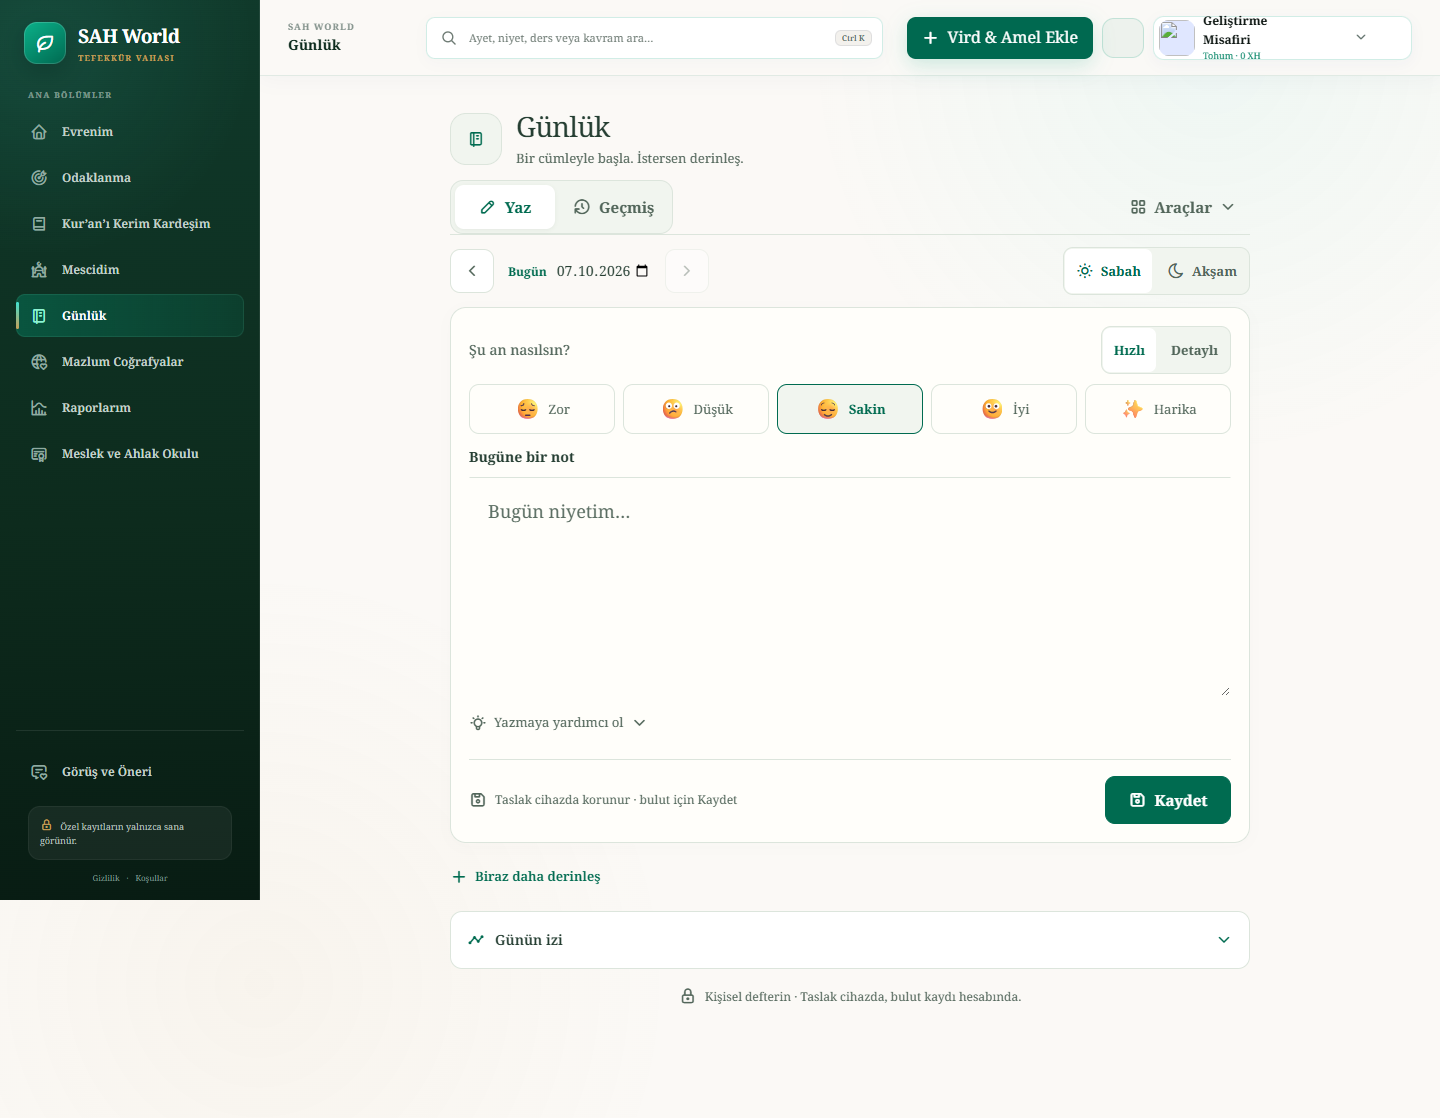
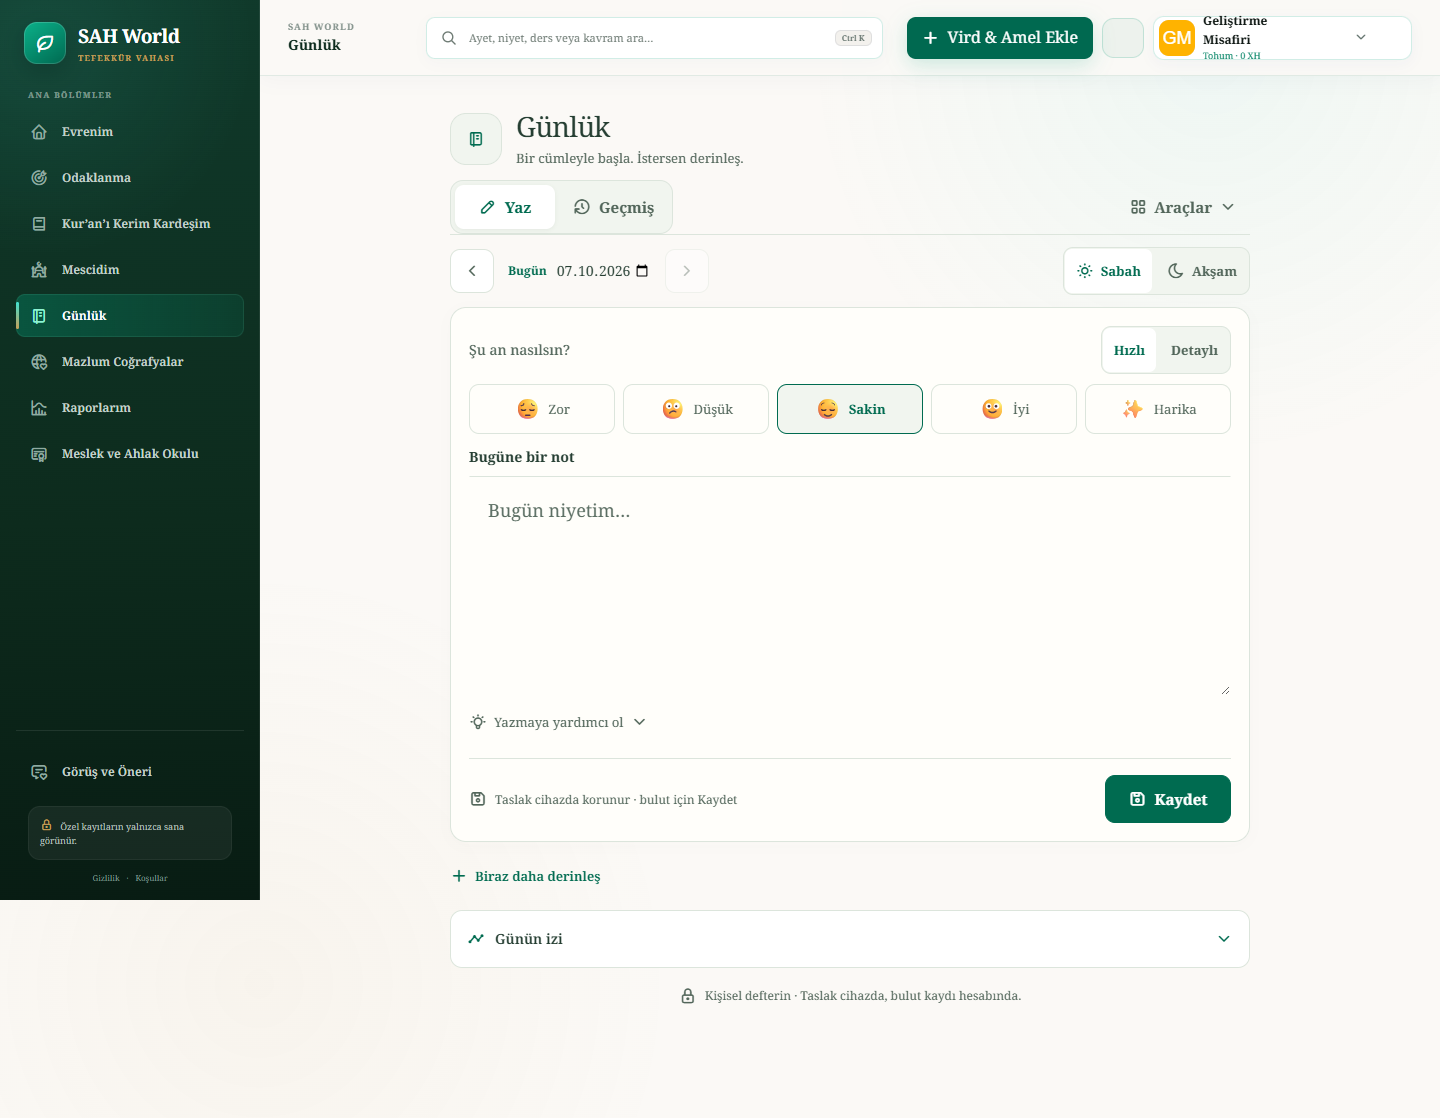
fix(journal): keep mobile navigation compact across narrow widths

diff --git a/tests/e2e/journal-redesign.spec.ts b/tests/e2e/journal-redesign.spec.ts
@@ -28,7 +28,7 @@ test('editor is above the fold, calm, responsive and keyboard accessible', async
   await expect(page.locator('main h1')).toHaveCount(1);
   await expect(page.getByRole('tab')).toHaveCount(2);
   await expect(page.locator('.journal-cover-hero, .journal-binder, .journal-connections-grid')).toHaveCount(0);
-  for (const width of [375, 390, 768, 1440, 1920]) {
+  for (const width of [375, 390, 391, 412, 768, 1440, 1920]) {
     await page.setViewportSize({ width, height: width >= 768 ? 900 : 844 });
     // Resize acknowledgement can precede responsive reflow on the CI browser.
     // Keep the acceptance limit; wait for the actual layout, not a fixed sleep.
@@ -36,6 +36,12 @@ test('editor is above the fold, calm, responsive and keyboard accessible', async
       { message: `responsive editor top at ${width}px` }).toBeLessThanOrEqual(480);
     const box = await page.locator('.journal-main-textarea').boundingBox();
     expect(box!.y, `first editor top at ${width}px`).toBeLessThanOrEqual(480);
+    if (width < 768) {
+      const nav = page.locator('.journal-navigation');
+      const tabs = await nav.locator('.journal-hub-tabs').boundingBox();
+      const toolsBox = await nav.locator('.journal-tools-toggle').boundingBox();
+      expect(Math.abs(tabs!.y - toolsBox!.y), `one navigation row at ${width}px`).toBeLessThan(12);
+    }
     expect(box!.height).toBeGreaterThanOrEqual(width >= 768 ? 220 : 160);
     expect(await page.evaluate(() => document.documentElement.scrollWidth <= innerWidth), `overflow ${width}px`).toBe(true);
     const small = await page.locator('.journal-navigation button, .journal-toolbar button, .journal-mood-picker button, .journal-mode-control button').evaluateAll(nodes => nodes.filter(node => { const r = node.getBoundingClientRect(); return r.height > 0 && (r.width < 44 || r.height < 44); }).map(node => node.textContent));

diff --git a/src/app/journal.css b/src/app/journal.css
@@ -179,6 +179,8 @@
   .journal-workspace .journal-heading-icon { width: 44px; height: 44px; flex-basis: 44px; border-radius: 12px; }
   .journal-workspace .journal-eyebrow { font-size: 10px; }
   .journal-workspace .journal-heading p { font-size: 13px; }
+  .journal-workspace .journal-hub-tabs button { min-width: 80px; padding: 8px 10px; gap: 6px; font-size: 14px; }
+  .journal-workspace .journal-tools-toggle { padding-inline: 8px; gap: 5px; font-size: 14px; }
   .journal-workspace .journal-toolbar { gap: 6px; flex-wrap: nowrap; }
   .journal-workspace .journal-date-controls { gap: 2px; min-width: 0; }
   .journal-workspace .journal-date-controls label { padding-inline: 4px; }
@@ -207,5 +209,4 @@
   .journal-workspace .journal-entry-symbol { flex-basis: 32px; width: 32px; height: 32px; border-radius: 8px; font-size: 18px; }
   .journal-workspace .journal-footer-note { font-size: 12px; text-align: center; }
 }
-@media(max-width:390px) { .journal-workspace .journal-hub-tabs button { min-width: 86px; padding: 8px 10px; } .journal-workspace .journal-tools-toggle { padding-inline: 8px; } }
 @media(prefers-reduced-motion:reduce) { .journal-workspace *, .journal-workspace *::before, .journal-workspace *::after { scroll-behavior: auto; transition: none; animation: none; } }

diff --git a/docs/journal-redesign-release.md b/docs/journal-redesign-release.md
@@ -20,6 +20,7 @@ Implementation is isolated on `codex/journal-redesign`; the user's separate Qura
 - The remaining failure is the pre-existing mobile Quran appointment-chat send button being covered by the bottom navigation. Reproduced independently in an untouched baseline worktree and also present in [baseline CI](https://github.com/sahiic/sah-world/actions/runs/37536195966/job/112517621461). The failing test was not weakened or removed; no Quran product code was changed.
 - Changed-file lint: **passed**. `npm run build`: **passed**, including TypeScript and production route generation.
 - Viewports checked: 375, 390, 768, 1440 and 1920 CSS pixels. The main editor starts within the first 480px at 1440×900 and 390×844, with minimum writing heights of 220px and 170px respectively. No horizontal overflow in the checked layouts. Enlarged text, long Turkish content, dark mode and a reduced-height mobile viewport were exercised.
+- Live browser verification found navigation wrapping just above the exact 390px breakpoint. Mobile navigation now uses compact controls throughout the mobile range, with additional 391px / 412px checks and a same-row assertion. No touch targets were made smaller than 44px.
 - Network/identity and cloud acknowledgement checks use explicit test fixtures; these are **not** claims of testing real authenticated Supabase writes. No real private journal content was used in screenshots, logs or test records.
 
 ## Before / after
